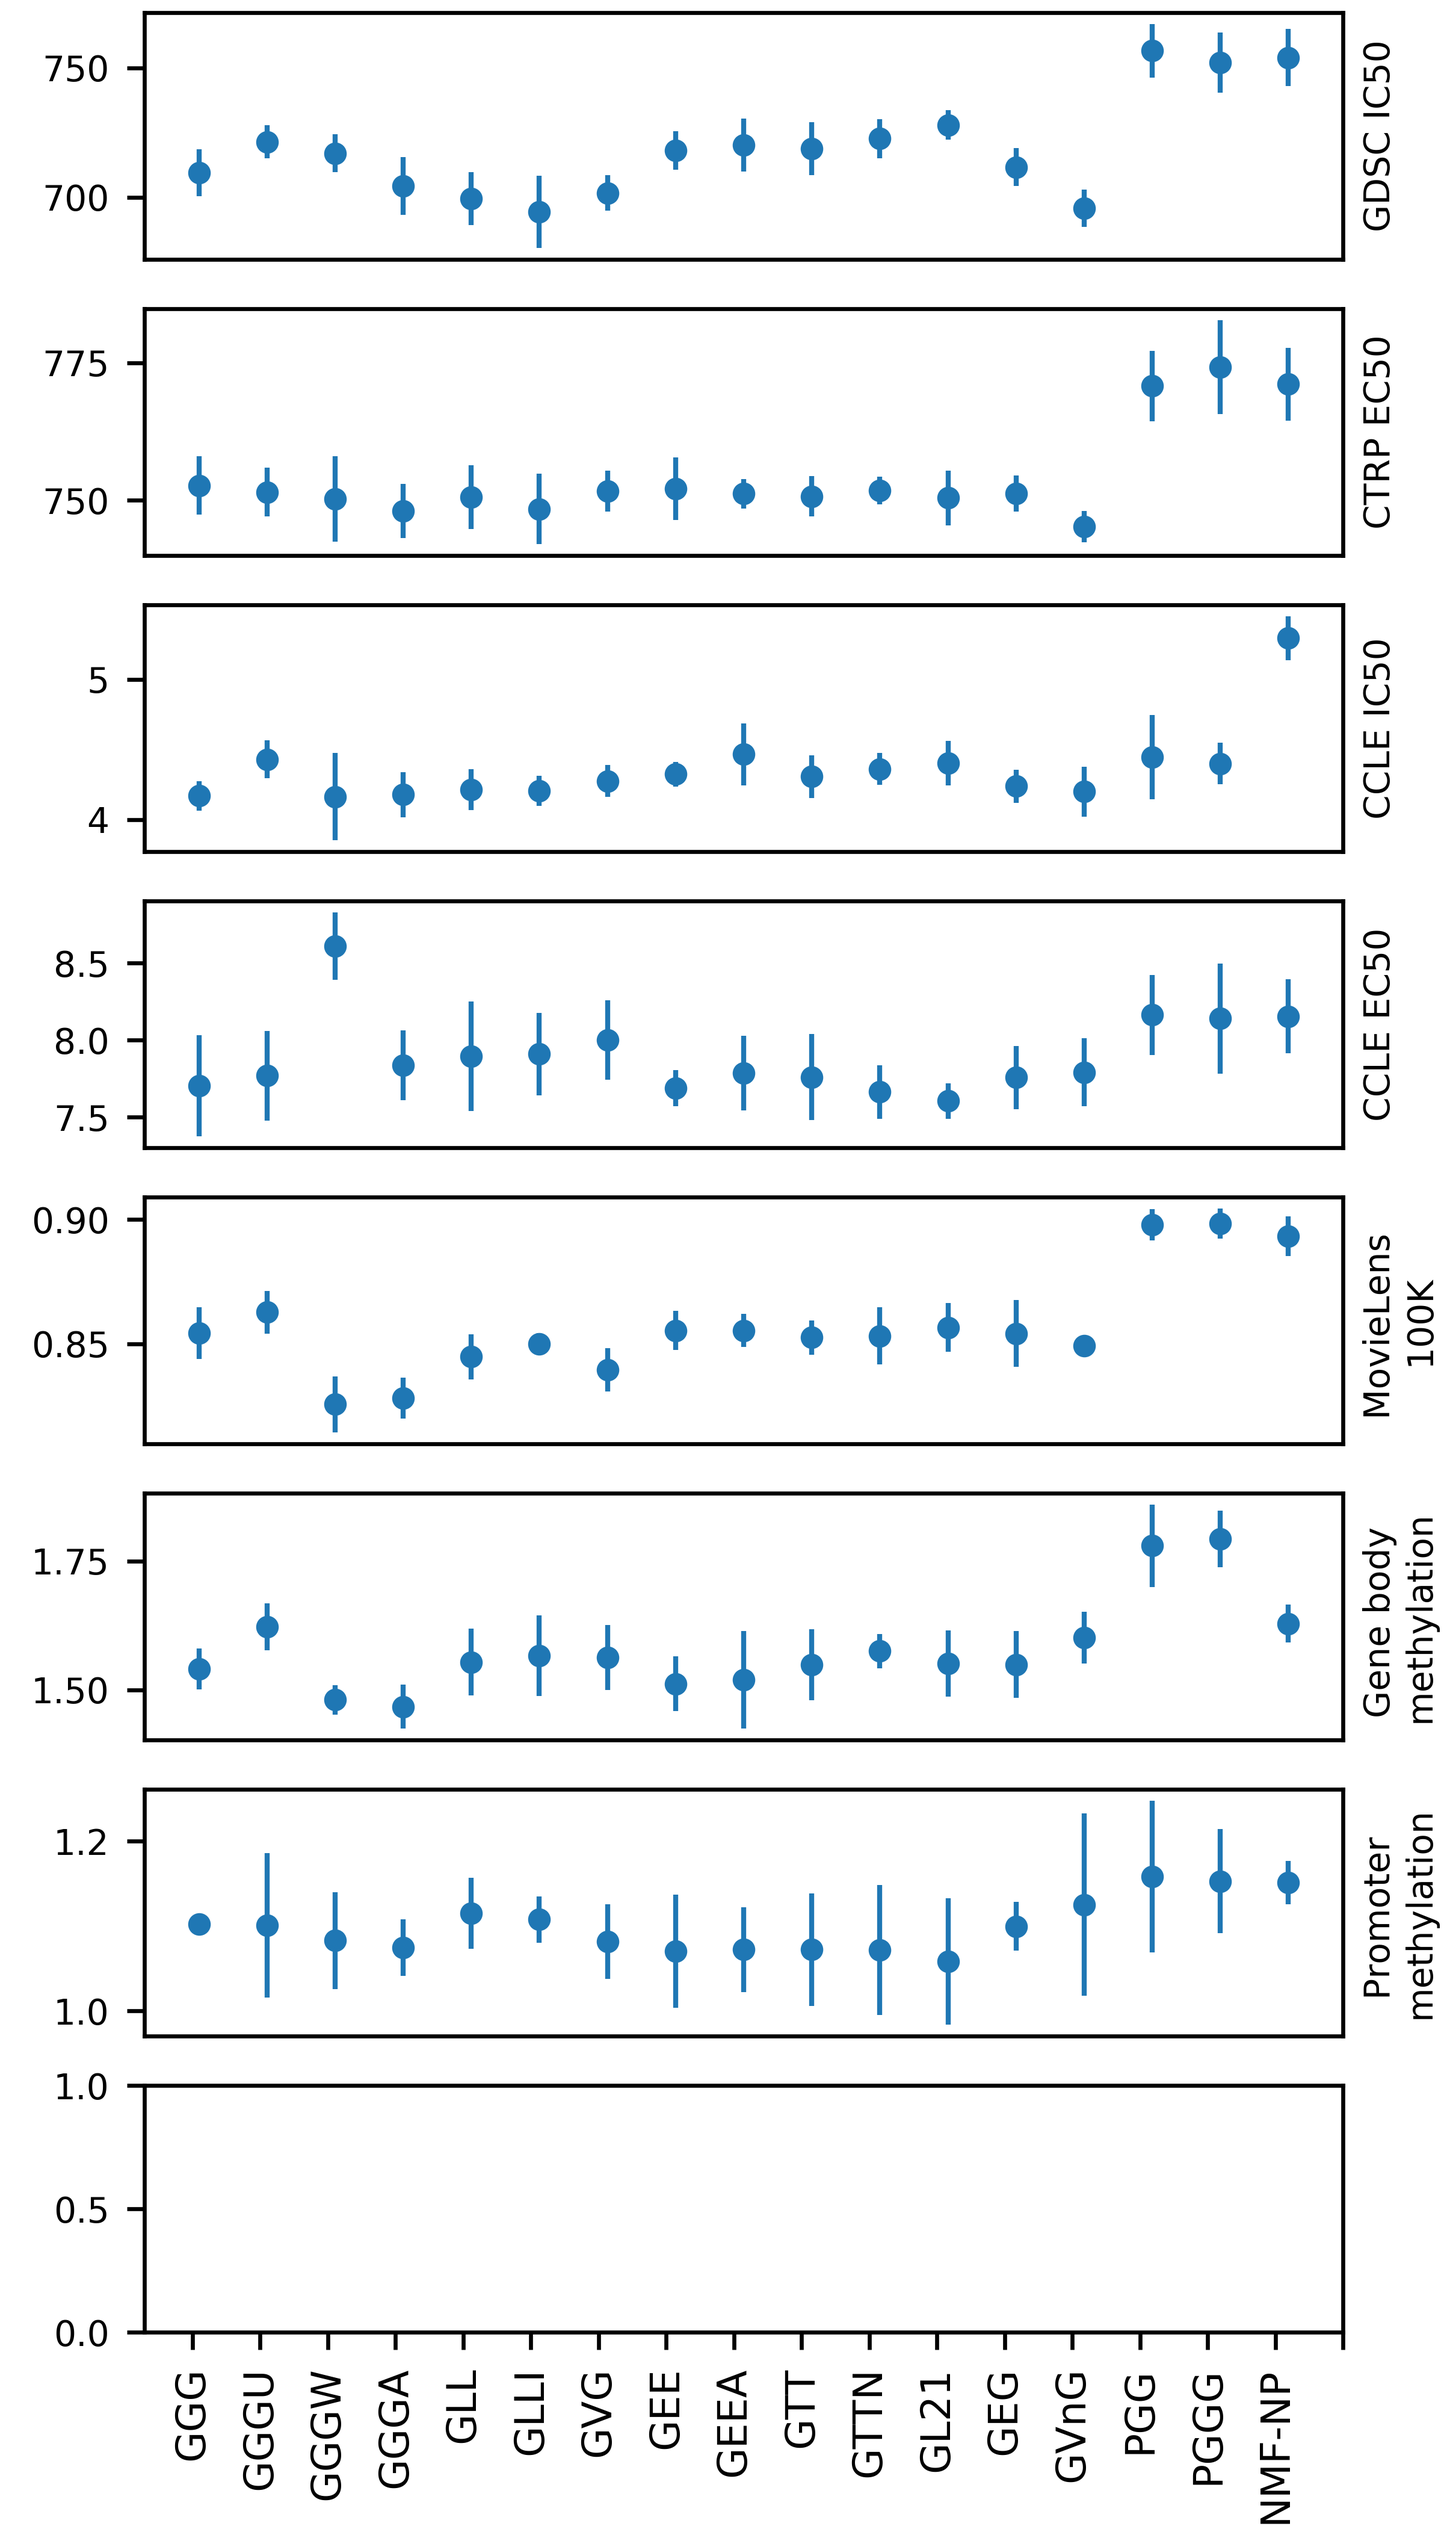
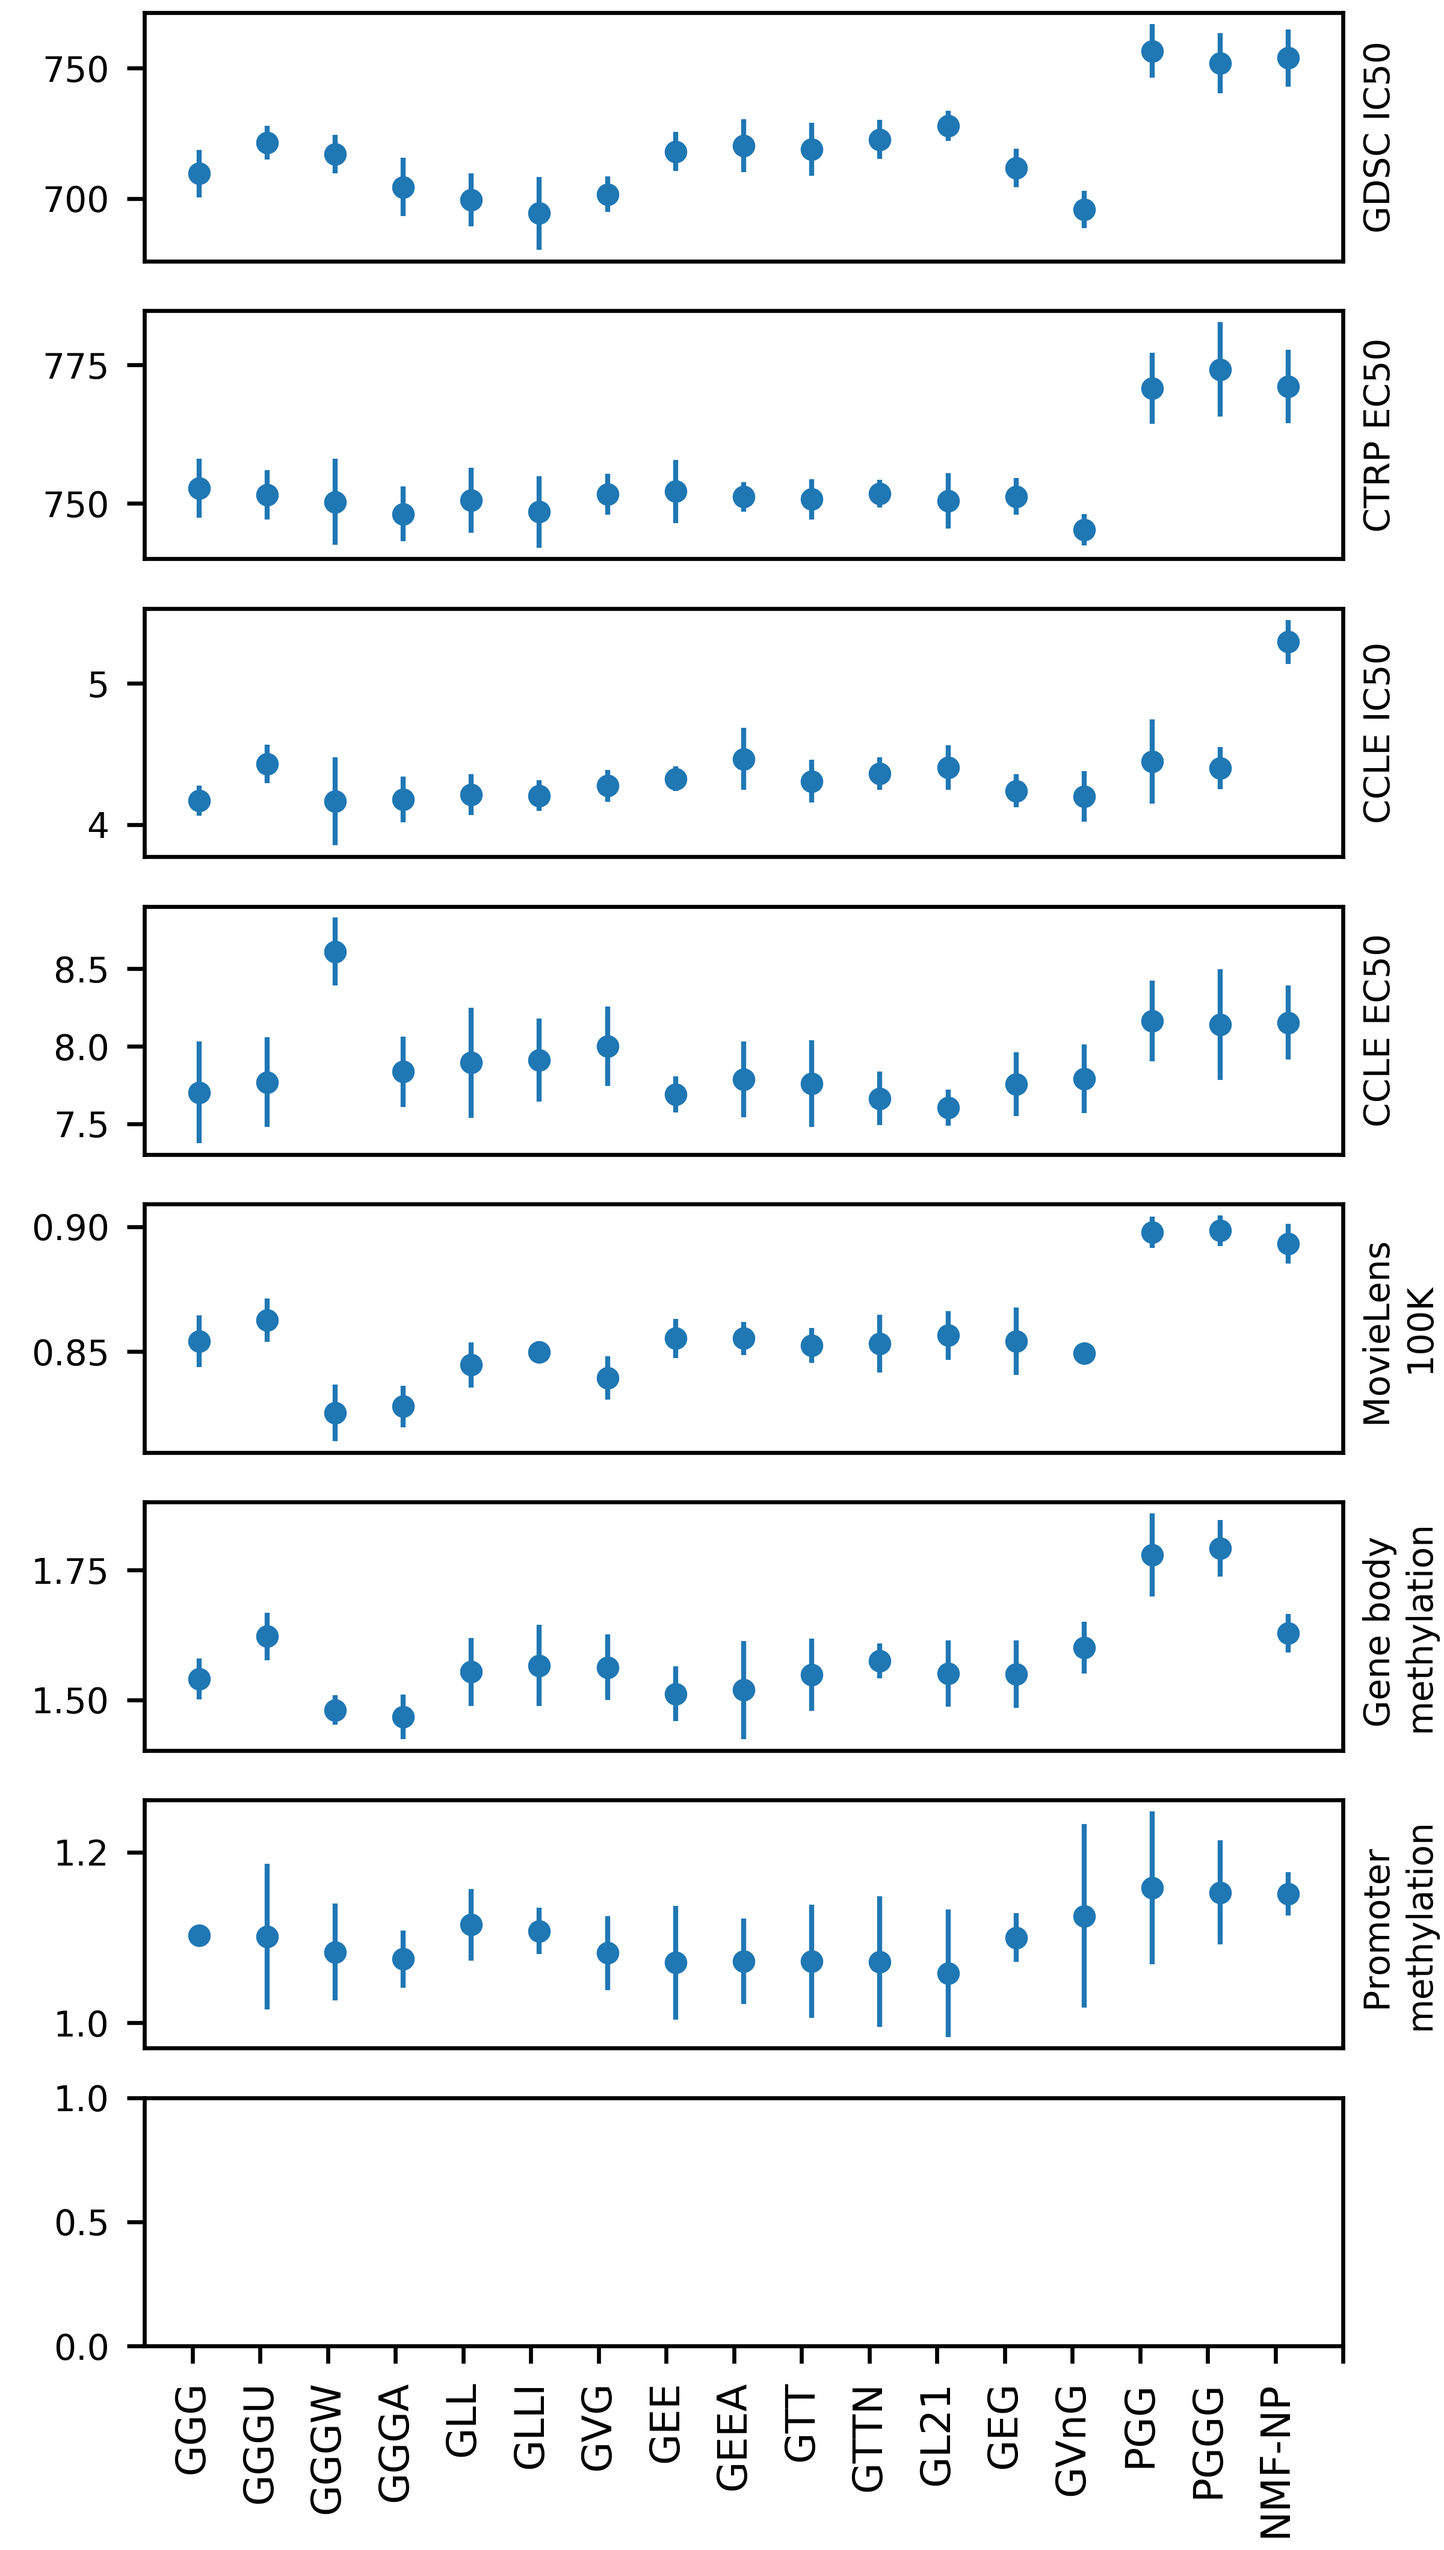
Finished running ML1M GLL, GLLI.

Changed region(s): [[0.9375, 0.5287, 0.9688, 0.5598], [0.875, 0.9642, 0.9062, 0.9953]]

diff --git a/experiments/cross_validation/plots/plot_crossvalidation_twocolumns.py b/experiments/cross_validation/plots/plot_crossvalidation_twocolumns.py
@@ -1,5 +1,5 @@
 """
-Plot the cross-validation experiment outcomes.
+Plot the cross-validation experiment outcomes, in two columns.
 """
 
 project_location = "/Users/thomasbrouwer/Documents/Projects/libraries/"
@@ -96,16 +96,16 @@ all_performances_datasets = [
 
 
 ''' Plot into one big graph. '''
-fig = plt.figure(figsize=(4, 12))
-fig.subplots_adjust(left=0.10, right=0.93, bottom=0.08, top=0.995)
-ax1 = plt.subplot2grid((8, 1), (0, 0))
-ax2 = plt.subplot2grid((8, 1), (1, 0))
-ax3 = plt.subplot2grid((8, 1), (2, 0))
-ax4 = plt.subplot2grid((8, 1), (3, 0))
-ax5 = plt.subplot2grid((8, 1), (4, 0))
-ax6 = plt.subplot2grid((8, 1), (5, 0))
-ax7 = plt.subplot2grid((8, 1), (6, 0))
-ax8 = plt.subplot2grid((8, 1), (7, 0))
+fig = plt.figure(figsize=(8, 5))
+fig.subplots_adjust(left=0.04, right=0.95, bottom=0.11, top=0.995)
+ax1 = plt.subplot2grid((4, 2), (0, 0))
+ax2 = plt.subplot2grid((4, 2), (1, 0))
+ax3 = plt.subplot2grid((4, 2), (2, 0))
+ax4 = plt.subplot2grid((4, 2), (3, 0))
+ax5 = plt.subplot2grid((4, 2), (0, 1))
+ax6 = plt.subplot2grid((4, 2), (1, 1))
+ax7 = plt.subplot2grid((4, 2), (2, 1))
+ax8 = plt.subplot2grid((4, 2), (3, 1))
 axes = [ax1, ax2, ax3, ax4, ax5, ax6, ax7, ax8]
 
 # Turn off xticks and make ytick labels smaller
@@ -116,6 +116,8 @@ for ax in axes:
 
 # Add method names to bottom plot
 xlabels = methods
+ax4.set_xticks(numpy.arange(0,len(xlabels),1))
+ax4.set_xticklabels(xlabels, fontsize=8, rotation='vertical')
 ax8.set_xticks(numpy.arange(0,len(xlabels),0.99) + 0.7)
 ax8.set_xticklabels(xlabels, fontsize=8, rotation='vertical')
 
@@ -125,8 +127,8 @@ for i, (dataset, all_performances) in enumerate(all_performances_datasets):
     y, err = numpy.mean(all_performances, axis=1), numpy.std(all_performances, axis=1)
     axes[i].errorbar(x=x, y=y, yerr=err, fmt='.', markersize=7, linewidth=1)
     axes[i].yaxis.set_label_position("right")
-    axes[i].set_ylabel(dataset_to_ylabel[dataset], fontsize=7, rotation='vertical')
+    axes[i].set_ylabel(dataset_to_ylabel[dataset], fontsize=10, rotation='vertical')
 
 folder_plots = "./"
-plot_file = folder_plots+"crossvalidation.png"
+plot_file = folder_plots+"crossvalidation_twocolumns.png"
 plt.savefig(plot_file, dpi=600)

diff --git a/experiments/sparsity/movielens_100K/gaussian_laplace.py b/experiments/sparsity/movielens_100K/gaussian_laplace.py
@@ -1,0 +1,44 @@
+'''
+Measure sparsity experiment on the MovieLens 100K dataset, with the Gaussian + Laplace model.
+'''
+
+project_location = "/Users/thomasbrouwer/Documents/Projects/libraries/"
+import sys
+sys.path.append(project_location)
+
+from BMF_Priors.code.models.bmf_gaussian_laplace import BMF_Gaussian_Laplace
+from BMF_Priors.data.movielens.load_data import load_processed_movielens_100K
+from BMF_Priors.experiments.sparsity.sparsity_experiment import sparsity_experiment
+
+import matplotlib.pyplot as plt
+import math
+
+
+''' Run the experiment. '''
+R, M = load_processed_movielens_100K()
+model_class = BMF_Gaussian_Laplace
+n_repeats = 10
+stratify_rows = False
+fractions_known = [0.07, 0.06, 0.05, 0.04, 0.03, 0.02]
+fractions_unknown = [1. - v for v in fractions_known]
+settings = {
+    'R': R, 
+    'M': M, 
+    'K': 3,
+    'hyperparameters': { 'alpha':1., 'beta':1., 'eta':math.sqrt(10.) }, 
+    'init': 'random', 
+    'iterations': 250,
+    'burn_in': 200,
+    'thinning': 2,
+}
+fout = './results/performances_gaussian_laplace.txt'
+average_performances, all_performances = sparsity_experiment(
+    n_repeats=n_repeats, fractions_unknown=fractions_unknown, stratify_rows=stratify_rows,
+    model_class=model_class, settings=settings, fout=fout)
+
+
+''' Plot the performance. '''
+plt.figure()
+plt.title("Sparsity performances")
+plt.plot(fractions_unknown, average_performances['MSE'])
+plt.ylim(0,4)

diff --git a/experiments/sparsity/movielens_100K/gaussian_laplace_ig.py b/experiments/sparsity/movielens_100K/gaussian_laplace_ig.py
@@ -1,0 +1,43 @@
+'''
+Measure sparsity experiment on the MovieLens 100K dataset, with the Gaussian + Laplace + IG model.
+'''
+
+project_location = "/Users/thomasbrouwer/Documents/Projects/libraries/"
+import sys
+sys.path.append(project_location)
+
+from BMF_Priors.code.models.bmf_gaussian_laplace_inversegaussian import BMF_Gaussian_Laplace_IG
+from BMF_Priors.data.movielens.load_data import load_processed_movielens_100K
+from BMF_Priors.experiments.sparsity.sparsity_experiment import sparsity_experiment
+
+import matplotlib.pyplot as plt
+
+
+''' Run the experiment. '''
+R, M = load_processed_movielens_100K()
+model_class = BMF_Gaussian_Laplace_IG
+n_repeats = 10
+stratify_rows = False
+fractions_known = [0.07, 0.06, 0.05, 0.04, 0.03, 0.02]
+fractions_unknown = [1. - v for v in fractions_known]
+settings = {
+    'R': R, 
+    'M': M, 
+    'K': 2,
+    'hyperparameters': { 'alpha':1., 'beta':1. }, 
+    'init': 'random', 
+    'iterations': 250,
+    'burn_in': 200,
+    'thinning': 2,
+}
+fout = './results/performances_gaussian_laplace_ig.txt'
+average_performances, all_performances = sparsity_experiment(
+    n_repeats=n_repeats, fractions_unknown=fractions_unknown, stratify_rows=stratify_rows,
+    model_class=model_class, settings=settings, fout=fout)
+
+
+''' Plot the performance. '''
+plt.figure()
+plt.title("Sparsity performances")
+plt.plot(fractions_unknown, average_performances['MSE'])
+plt.ylim(0,4)

diff --git a/experiments/cross_validation/movielens_1M/gaussian_laplace_inversegaussian.py b/experiments/cross_validation/movielens_1M/gaussian_laplace_inversegaussian.py
@@ -17,7 +17,7 @@ import math
 ''' Settings BMF model. '''
 method = BMF_Gaussian_Laplace_IG
 R, M = load_processed_movielens_1M()
-hyperparameters = { 'alpha':1., 'beta':1., 'eta':math.sqrt(10.) }
+hyperparameters = { 'alpha':1., 'beta':1. }
 train_config = {
     'iterations' : 100,
     'init' : 'random',
@@ -29,7 +29,7 @@ predict_config = {
 
 
 ''' Settings nested cross-validation. '''
-K_range = [6,7,8]
+K_range = [7,8,9]
 no_folds = 5
 no_threads = 5
 parallel = False
